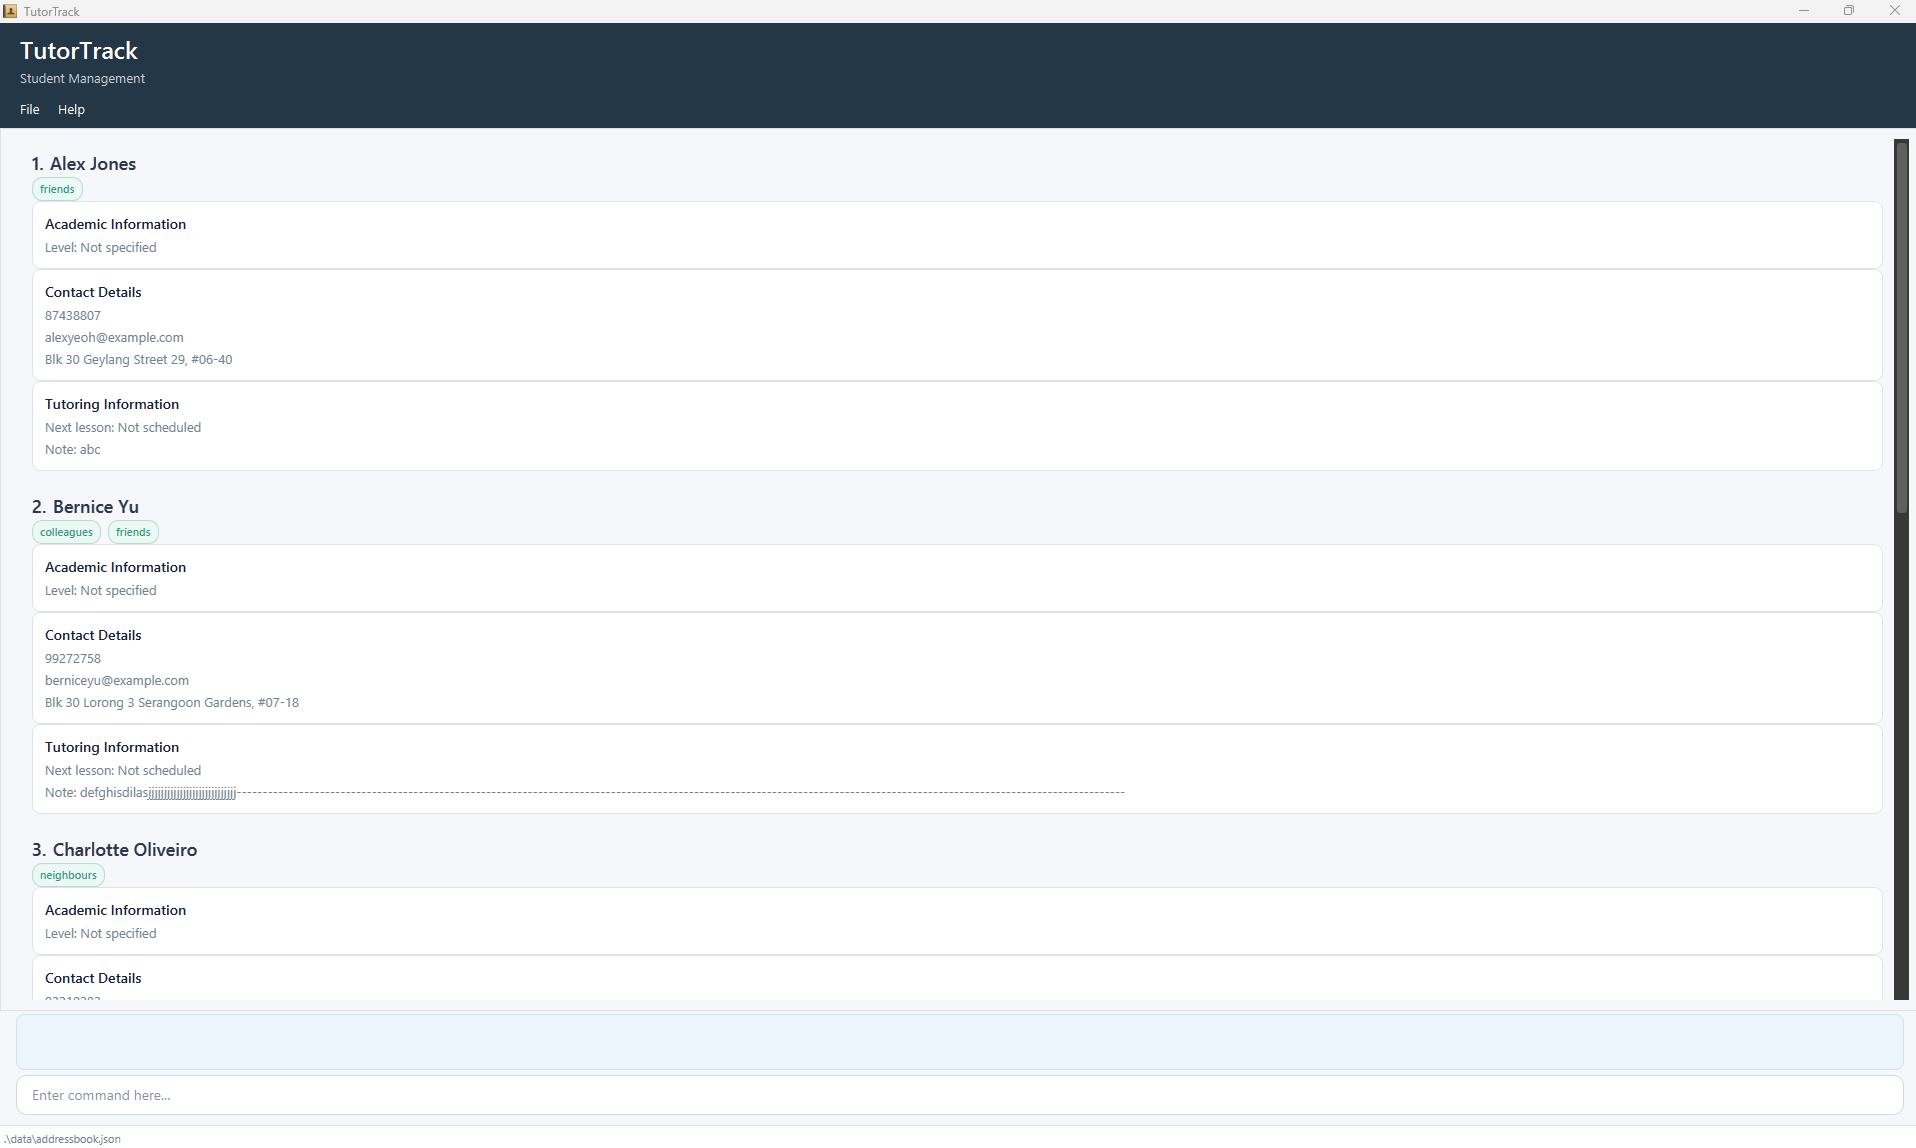
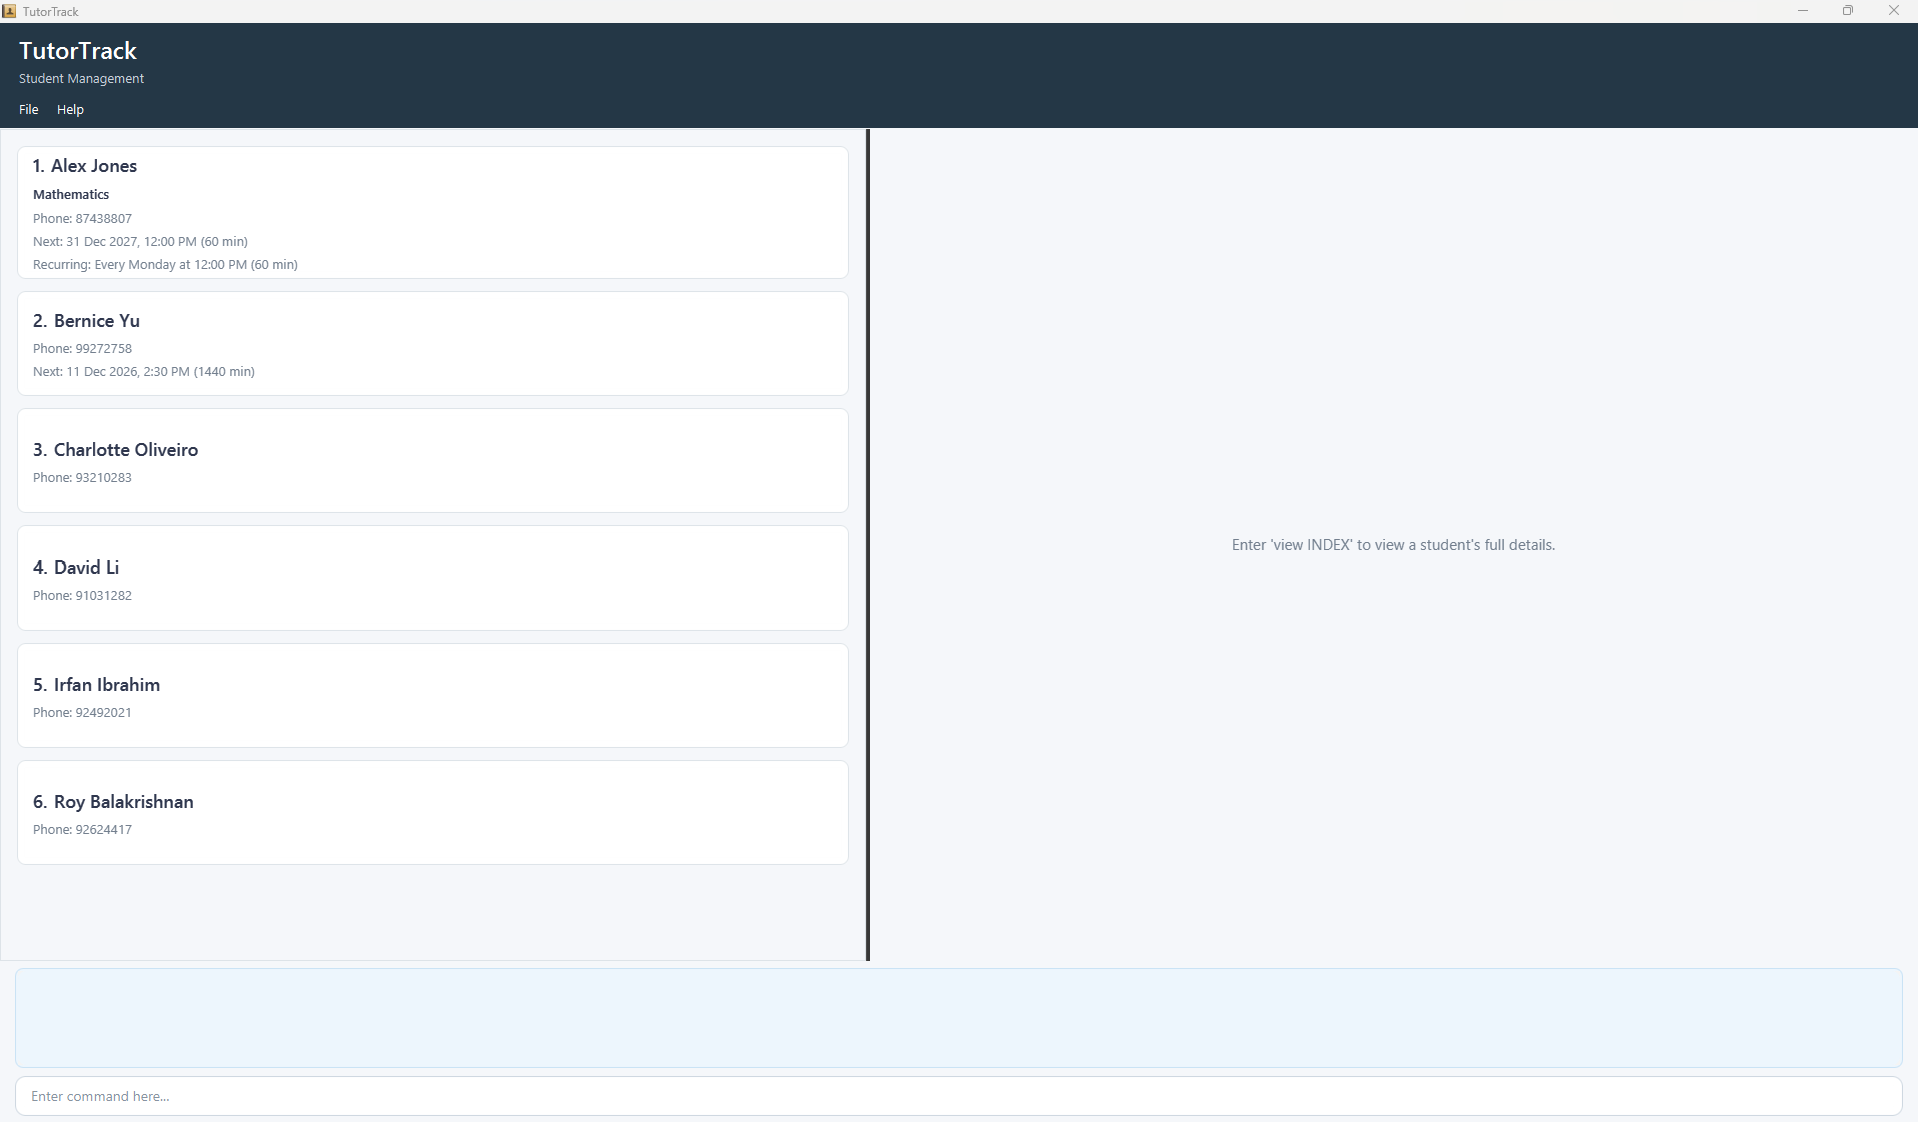
Update UI documentation images

diff --git a/docs/UserGuide.md b/docs/UserGuide.md
@@ -125,7 +125,9 @@ Format: `view INDEX`
 * The complete record includes academic information, contact details, tags, next and recurring lessons, lesson topics, and the student's note.
 * Running another successful command clears the detail panel to avoid showing information that may no longer be current.
 
-Example: `view 2` displays the complete record of the second student in the current list.
+Example: `view 1` displays the complete record of the first student in the current list.
+
+![result for 'view 1'](images/viewAlex.png)
 
 ### Viewing the earliest upcoming lesson: `upcoming`
 
